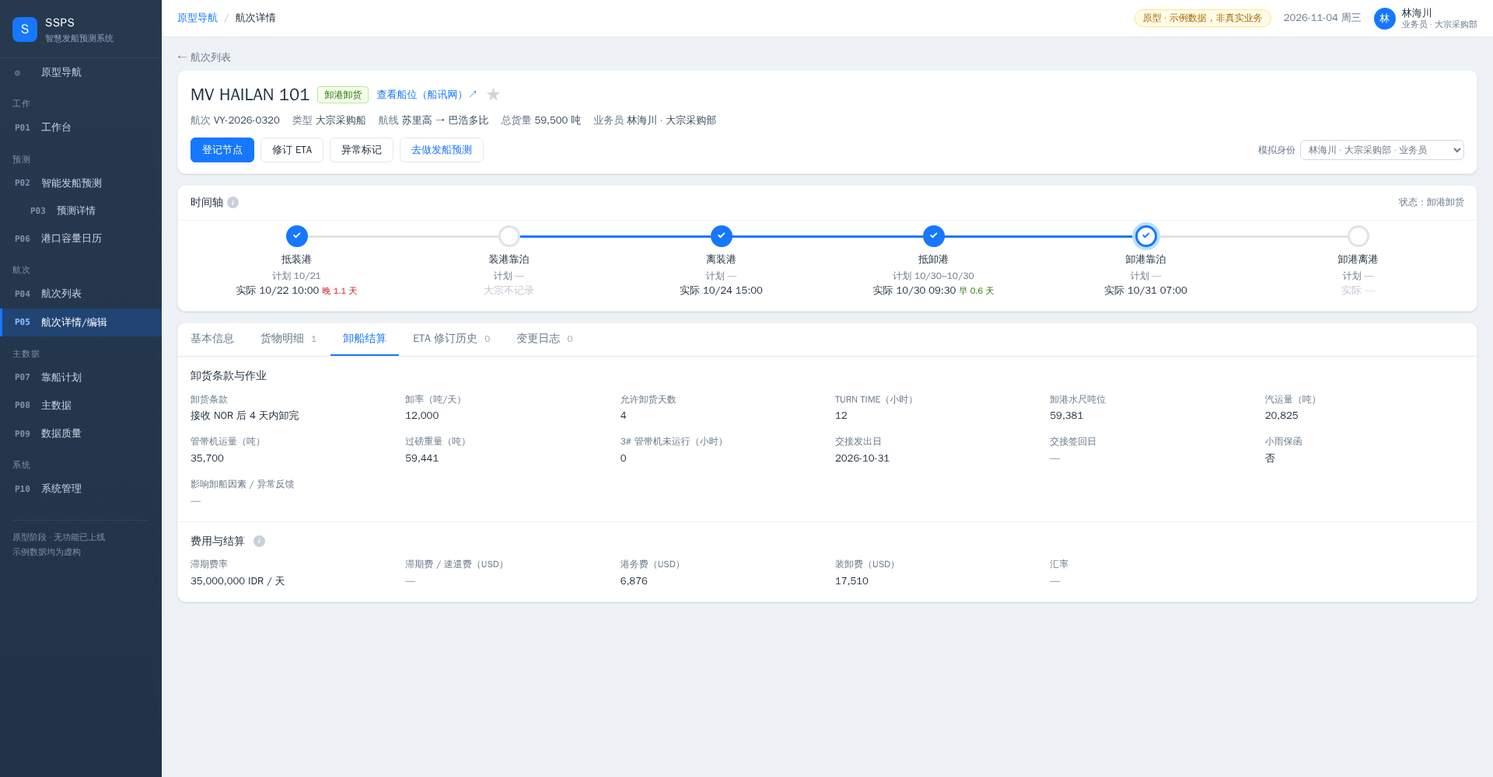
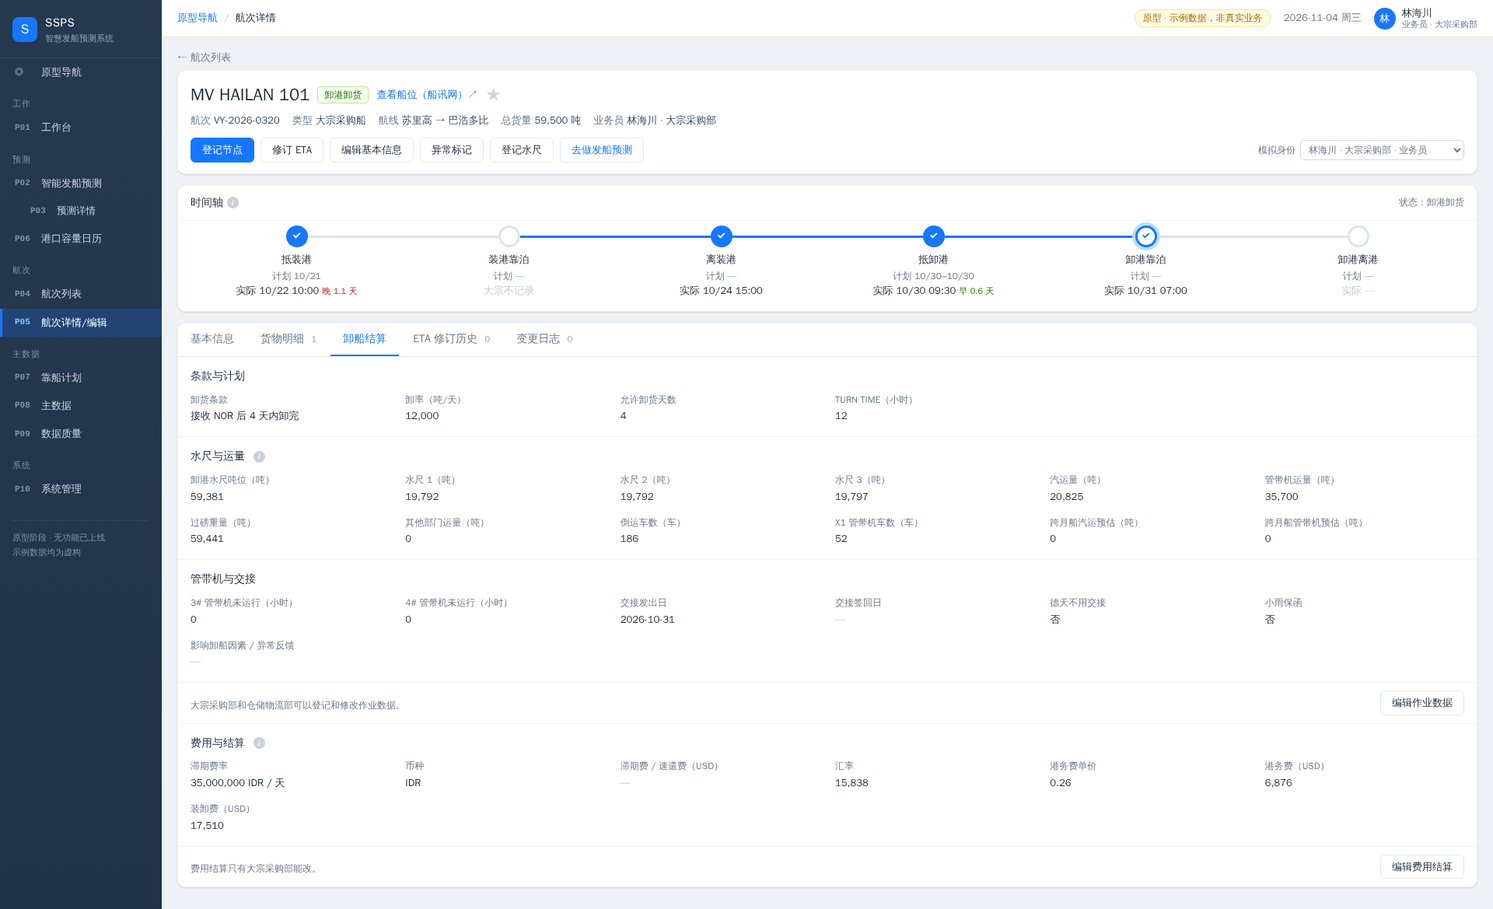
feat(prototype): P05 补全卸船作业与结算录入、登记水尺、销售扩展编辑
- 卸船结算页签按 T06 补全字段（水尺 1–3、其他部门运量、倒运车数、X1 管带机车数、跨月预估、4# 管带机、交接等），
  分「作业数据」和「费用结算」两块各自编辑；金额按部门隔离
- 顶部操作栏新增「登记水尺」「编辑基本信息」；成品船销售扩展可编辑；船未抵卸港前不能登记
- 保存时校验（不能为负、交接签回日不早于发出日）并记入变更日志
- 权限（待确认）：作业数据——大宗采购部与仓储物流部；费用金额——仅大宗采购部；销售扩展——商务海运部
- open-questions 登记仓储物流部权限冲突、卸船统计页范围、水尺口径

Claude-Session: https://claude.ai/code/session_01S7EgPzREeeBA8rsxhMLUP6

diff --git a/prototype/P05-voyage-detail.html b/prototype/P05-voyage-detail.html
@@ -76,7 +76,7 @@ textarea.inp{height:auto;min-height:60px;padding:6px 9px}
   const v = M.voyageList.find((x) => x.id === id);
   const root = $('root');
   if (!v) { root.innerHTML = '<a class="back" href="P04-voyage-list.html">← 航次列表</a><div class="card empty">没有找到航次 ' + C.esc(id) + '</div>'; return; }
-  const ST = { tab: C.qs.get('tab') || 'base', edit: false, focus: C.qs.get('focus') || '' };
+  const ST = { tab: C.qs.get('tab') || 'base', edit: false, editOps: false, editMoney: false, editSales: false, focus: C.qs.get('focus') || '' };
   const VIEWERS = [['林海川', '大宗采购部', '业务员'], ['周晓棠', '大宗采购部', '部门主管'], ['韩墨', '商务海运部', '业务员'], ['顾明远', '仓储物流部', '物流管理员']];
   const lbl = { attr: '业务属性', no: '船次号', carrier: '承运方', shipVoy: '船方航次号', disch2: '第二卸港', vessel: '船舶', laycanS: '受载期始', laycanE: '受载期止', planLoadArr: '计划抵装港', planLoadDep: '计划离装港', planDischS: '计划抵卸港窗口始', planDischE: '计划抵卸港窗口止', planBerths: '计划泊位', focus: '重点关注', remark: '备注', flags: '异常标记',
     actLoadArr: '实际抵装港', loadBerth: '装港靠泊', actLoadDep: '实际离装港', actDischArr: '实际抵卸港', dischBerth: '卸港靠泊', dischDep: '卸港离港', eta: '当前 ETA（卸港）' };
@@ -178,15 +178,69 @@ textarea.inp{height:auto;min-height:60px;padding:6px 9px}
   }
 
   // ---------- 卸船结算 / 销售扩展（金额字段按部门隔离） ----------
+  // ---------- 卸船作业与结算（T06）/ 销售扩展（T07） ----------
+  // 字段分两块：作业数据（水尺、运量、管带机、交接）和费用结算（金额，按部门隔离）
+  const OPS = [
+    ['条款与计划', [['terms', '卸货条款', 'text'], ['rate', '卸率（吨/天）', 'num'], ['allowDays', '允许卸货天数', 'num'], ['turn', 'TURN TIME（小时）', 'num']]],
+    ['水尺与运量', [['gauge', '卸港水尺吨位（吨）', 'num'], ['g1', '水尺 1（吨）', 'num'], ['g2', '水尺 2（吨）', 'num'], ['g3', '水尺 3（吨）', 'num'], ['truck', '汽运量（吨）', 'num'], ['belt', '管带机运量（吨）', 'num'], ['weigh', '过磅重量（吨）', 'num'], ['other', '其他部门运量（吨）', 'num'], ['carTurn', '倒运车数（车）', 'num'], ['x1Cars', 'X1 管带机车数（车）', 'num'], ['crossTruck', '跨月船汽运预估（吨）', 'num'], ['crossBelt', '跨月船管带机预估（吨）', 'num']]],
+    ['管带机与交接', [['beltOff3', '3# 管带机未运行（小时）', 'num'], ['beltOff4', '4# 管带机未运行（小时）', 'num'], ['sendDay', '交接发出日', 'date'], ['backDay', '交接签回日', 'date'], ['noHandover', '德天不用交接', 'bool'], ['rain', '小雨保函', 'bool'], ['issue', '影响卸船因素 / 异常反馈', 'textarea']]],
+  ];
+  const MONEY = [['demRate', '滞期费率', 'num'], ['demCur', '币种', 'cur'], ['demUsd', '滞期费 / 速遣费（USD）', 'num'], ['fx', '汇率', 'num'], ['portUnit', '港务费单价', 'num'], ['portFee', '港务费（USD）', 'num'], ['loadFee', '装卸费（USD）', 'num']];
+  const arrived = () => ['卸港等泊', '卸港卸货', '已结束'].includes(C.statusOf(v));
+  const sysAdmin = () => C.role() === '系统管理员';
+  // 权限（待确认）：作业数据——大宗采购部（本人航次/主管）和仓储物流部；金额——只有大宗采购部；成品销售扩展——商务海运部
+  const canOps = () => bulk && !v.readonly && ((C.me.dept === '大宗采购部' && C.canEdit(v)) || C.me.dept === '仓储物流部' || sysAdmin());
+  const canMoney = () => bulk && !v.readonly && ((C.me.dept === '大宗采购部' && C.canEdit(v)) || sysAdmin());
+  const canSales = () => prod && !v.readonly && ((C.me.dept === '商务海运部' && C.canEdit(v)) || sysAdmin());
+  const seeMoney = () => C.me.dept === '大宗采购部' || sysAdmin();
+  const fv = (t, val) => (val === null || val === undefined || val === '' ? '<span class="mut">—</span>' : t === 'bool' ? (val ? '是' : '否') : t === 'num' ? C.fmt(val) : C.esc(val));
+  const finp = (t, key, val) => t === 'bool' ? '<label><input type="checkbox" data-s="' + key + '"' + (val ? ' checked' : '') + '> 是</label>' : t === 'textarea' ? '<textarea class="inp" data-s="' + key + '">' + C.esc(val || '') + '</textarea>'
+    : t === 'cur' ? '<select class="inp" data-s="' + key + '"><option' + (val === 'IDR' ? ' selected' : '') + '>IDR</option><option' + (val === 'USD' ? ' selected' : '') + '>USD</option></select>'
+    : '<input class="inp" data-s="' + key + '" type="' + (t === 'num' ? 'number' : t === 'date' ? 'date' : 'text') + '" step="any" value="' + C.esc(val == null ? '' : val) + '">';
+  const itemX = (key, label, view, edit) => '<div class="it' + (ST.focus === key ? ' hl' : '') + '" data-f="' + key + '"><div class="k">' + label + '</div><div class="v">' + (edit ? edit : view) + '</div></div>';
   function extTab() {
-    if (prod) { const x = M.salesExt[v.id] || {}; return '<div class="sec"><div class="kvg">' + item('way', '租船方式', x.way || '—') + item('sc', '海运合同号', x.contract || '—') + '</div><div class="note2" style="margin-top:10px">「卸港代理」整列为空已删除；序号由航次编号替代。</div></div>'; }
+    if (prod) {
+      const x = M.salesExt[v.id] || {}, E = ST.editSales && canSales();
+      return '<div class="sec"><div class="kvg">' + itemX('way', '租船方式', fv('t', x.way), E ? '<select class="inp" data-s="way"><option value="">（未选）</option><option' + (x.way === 'CFR' ? ' selected' : '') + '>CFR</option><option' + (x.way === 'FOB' ? ' selected' : '') + '>FOB</option></select>' : null) +
+        itemX('sc', '海运合同号', fv('t', x.contract), E ? '<input class="inp" data-s="contract" value="' + C.esc(x.contract || '') + '">' : null) + '</div><div class="note2" style="margin-top:10px">「卸港代理」整列为空已删除；序号由航次编号替代。</div></div>' +
+        (canSales() ? '<div class="bar2"><span class="note2">商务海运部的业务员和主管可以修改。</span><span style="display:flex;gap:8px">' + (E ? '<button class="btn" id="xCancel">取消</button><button class="btn primary" id="xSaveSales">保存</button>' : '<button class="btn" id="xEditSales">编辑</button>') + '</span></div>' : '');
+    }
     const x = M.bulkSettle[v.id];
-    if (!x) return '<div class="empty">卸船开始后才有结算和作业数据。</div>';
-    const canAmt = C.me.dept === '大宗采购部' || ['系统管理员'].includes(C.role());
-    const amt = (val) => (canAmt ? val : '<span class="lock">无权限查看</span>');
-    return '<div class="sec"><h3>卸货条款与作业</h3><div class="kvg">' + item('t1', '卸货条款', x.terms) + item('t2', '卸率（吨/天）', C.fmt(x.rate)) + item('t3', '允许卸货天数', x.allowDays) + item('t4', 'TURN TIME（小时）', x.turn) + item('t5', '卸港水尺吨位', C.fmt(x.gauge)) +
-      item('t6', '汽运量（吨）', C.fmt(x.truck)) + item('t7', '管带机运量（吨）', C.fmt(x.belt)) + item('t8', '过磅重量（吨）', C.fmt(x.weigh)) + item('t9', '3# 管带机未运行（小时）', x.beltOff3) + item('t10', '交接发出日', x.sendDay || '—') + item('t11', '交接签回日', x.backDay || '—') + item('t12', '小雨保函', x.rain ? '是' : '否') + item('t13', '影响卸船因素 / 异常反馈', x.issue || '—') + '</div></div>' +
-      '<div class="sec"><h3>费用与结算' + C.ic('金额类字段按部门隔离：只有大宗采购部（及系统管理员）能看。用右上角的「模拟身份」可以切换体验。') + '</h3><div class="kvg">' + item('a1', '滞期费率', amt(C.fmt(x.demRate) + ' ' + x.demCur + ' / 天')) + item('a2', '滞期费 / 速遣费（USD）', amt(x.demUsd == null ? '—' : C.fmt(x.demUsd))) + item('a3', '港务费（USD）', amt(C.fmt(x.portFee))) + item('a4', '装卸费（USD）', amt(C.fmt(x.loadFee))) + item('a5', '汇率', amt('—')) + '</div></div>';
+    if (!x) return '<div class="empty">' + (arrived() ? '这条航次还没有登记卸船作业数据。' : '船抵卸港后才开始登记卸船作业数据（水尺、运量等）。') + (arrived() && canOps() ? '<br><button class="btn primary" id="xStart" style="margin-top:10px">开始登记</button>' : '') + '</div>';
+    const eo = ST.editOps && canOps(), em = ST.editMoney && canMoney();
+    const grp = (name, fields, tip) => '<div class="sec"><h3>' + name + (tip ? C.ic(tip) : '') + '</h3><div class="kvg">' + fields.map((f) => itemX('s_' + f[0], f[1], fv(f[2], x[f[0]]), eo ? finp(f[2], f[0], x[f[0]]) : null)).join('') + '</div></div>';
+    const opsBar = '<div class="bar2"><span class="note2">' + (canOps() ? (eo ? '编辑中：改完点保存，会记入变更日志。' : '大宗采购部和仓储物流部可以登记和修改作业数据。') : '你没有修改作业数据的权限。') + '</span>' + (canOps() ? '<span style="display:flex;gap:8px">' + (eo ? '<button class="btn" id="xCancel">取消</button><button class="btn primary" id="xSaveOps">保存作业数据</button>' : '<button class="btn" id="xEditOps">编辑作业数据</button>') + '</span>' : '') + '</div>';
+    let money;
+    if (!seeMoney()) money = '<div class="sec"><h3>费用与结算' + C.ic('金额类字段按部门隔离：只有大宗采购部（及系统管理员）能看。用右上角的「模拟身份」可以切换体验。') + '</h3><div class="kvg">' + MONEY.map((f) => '<div class="it"><div class="k">' + f[1] + '</div><div class="v"><span class="lock">无权限查看</span></div></div>').join('') + '</div></div>';
+    else money = '<div class="sec"><h3>费用与结算' + C.ic('金额类字段按部门隔离：只有大宗采购部（及系统管理员）能看和改。') + '</h3><div class="kvg">' + MONEY.map((f) => itemX('m_' + f[0], f[1], fv(f[2], x[f[0]]) + (f[0] === 'demRate' && x.demCur ? ' ' + x.demCur + ' / 天' : ''), em ? finp(f[2], f[0], x[f[0]]) : null)).join('') + '</div></div>' +
+      (canMoney() ? '<div class="bar2"><span class="note2">' + (em ? '编辑中：金额只有大宗采购部能改。' : '费用结算只有大宗采购部能改。') + '</span><span style="display:flex;gap:8px">' + (em ? '<button class="btn" id="xCancel">取消</button><button class="btn primary" id="xSaveMoney">保存费用结算</button>' : '<button class="btn" id="xEditMoney">编辑费用结算</button>') + '</span></div>' : '');
+    return grp(OPS[0][0], OPS[0][1]) + grp(OPS[1][0], OPS[1][1], '水尺是按船的吃水深度推算载货量的测量，卸港后登记。作业数据由大宗采购部和仓储物流部登记，这个权限划分待确认。') + grp(OPS[2][0], OPS[2][1]) + opsBar + money;
+  }
+  // 保存：作业数据 / 费用结算 / 销售扩展
+  function saveSettle(kind) {
+    const cur = M.bulkSettle[v.id] || (M.bulkSettle[v.id] = {}), fields = kind === 'ops' ? [].concat(...OPS.map((g) => g[1])) : MONEY, next = {};
+    for (const [k, label, t] of fields) {
+      const el = root.querySelector('[data-s="' + k + '"]'); if (!el) continue;
+      if (t === 'bool') next[k] = el.checked; else if (t === 'num') { if (el.value === '') next[k] = null; else { const n = +el.value; if (!(n >= 0)) { C.toast('「' + label + '」不能为负数'); return; } next[k] = n; } } else next[k] = el.value.trim() || (t === 'date' ? null : '');
+    }
+    if (next.sendDay && next.backDay && next.backDay < next.sendDay) { C.toast('交接签回日不能早于发出日'); return; }
+    let n = 0; fields.forEach(([k, label]) => { const o = cur[k], nw = next[k]; if (nw !== undefined && String(o == null ? '' : o) !== String(nw == null ? '' : nw)) { log((kind === 'ops' ? '卸船作业 · ' : '费用结算 · ') + label, o, nw); cur[k] = nw; n++; } });
+    ST.editOps = ST.editMoney = false; C.persist(); render(); C.toast(n ? '已保存 ' + n + ' 项修改，已记入变更日志' : '没有修改');
+  }
+  function saveSales() {
+    const cur = M.salesExt[v.id] || (M.salesExt[v.id] = {}), way = root.querySelector('[data-s="way"]').value, ct = root.querySelector('[data-s="contract"]').value.trim();
+    if ((cur.way || '') !== way) { log('销售扩展 · 租船方式', cur.way, way); cur.way = way; } if ((cur.contract || '') !== ct) { log('销售扩展 · 海运合同号', cur.contract, ct); cur.contract = ct; }
+    ST.editSales = false; C.persist(); render(); C.toast('已保存');
+  }
+  // 登记水尺（A14 的快捷入口：卸港后记录水尺读数）
+  function gaugeModal() {
+    const x = M.bulkSettle[v.id] || {};
+    C.modal({ title: '登记水尺', ok: '保存', width: 480, body:
+      '<div class="note2" style="margin:0 0 10px">卸港后登记水尺读数；卸港水尺吨位是水尺推算出的实际载货量。保存后记入变更日志。</div>' +
+      ['gauge:卸港水尺吨位（吨）', 'g1:水尺 1（吨）', 'g2:水尺 2（吨）', 'g3:水尺 3（吨）'].map((q) => { const [k, l] = q.split(':'); return '<div class="field"><div class="f-lab2">' + l + '</div><input class="inp" type="number" step="any" id="g_' + k + '" value="' + (x[k] == null ? '' : x[k]) + '"></div>'; }).join('') + '<div class="errtxt" id="ge"></div>',
+      onOk: (m) => { const cur = M.bulkSettle[v.id] || (M.bulkSettle[v.id] = {}); let n = 0;
+        for (const k of ['gauge', 'g1', 'g2', 'g3']) { const raw = m.querySelector('#g_' + k).value; if (raw === '') continue; const val = +raw; if (!(val >= 0)) { m.querySelector('#ge').textContent = '水尺数值不能为负'; return false; } if (cur[k] !== val) { log('卸船作业 · ' + ({ gauge: '卸港水尺吨位', g1: '水尺 1', g2: '水尺 2', g3: '水尺 3' })[k], cur[k], val); cur[k] = val; n++; } }
+        if (!n) { m.querySelector('#ge').textContent = '没有填写或没有修改'; return false; } C.persist(); ST.tab = 'ext'; render(); C.toast('水尺已登记，已记入变更日志'); } });
   }
   const ETA_BASIS = ['船讯网', '船代', '电话'];
   const etaTab = () => { const L = M.etaRevisions.filter((r) => r.voyage === v.id).sort((a, b) => b.at.localeCompare(a.at));
@@ -210,7 +264,7 @@ textarea.inp{height:auto;min-height:60px;padding:6px 9px}
       (v.readonly ? '<div class="banner info">这是从历史副本迁入的记录，应用内不能修改。</div>' : '') +
       (C.missingDep(v) ? '<div class="banner err"><span>这条航次已抵卸港，但<b>缺「实际离装港」</b>，不能计入航程样本。</span>' + (can ? '<button class="btn primary" data-act="node">去补录</button>' : '') + '</div>' : '') +
       (C.etaStale(v) ? '<div class="banner warn"><span>ETA 已 ' + (C.TODAY - C.dayNum(v.etaUpdated)) + ' 天没有更新（超过 ' + C.ETA_STALE_DAYS + ' 天），请核对船位后修订。</span>' + (can ? '<button class="btn" data-act="eta">修订 ETA</button>' : '') + '</div>' : '') +
-      '<div class="acts"><button class="btn primary" data-act="node"' + (can ? '' : dis(noTip)) + '>登记节点</button><button class="btn" data-act="eta"' + (can && !v.actDischArr && v.vessel ? '' : dis(!can ? noTip : '只有已关联船舶、尚未抵卸港的航次才需要修订 ETA')) + '>修订 ETA</button><button class="btn" data-act="flags"' + (can ? '' : dis(noTip)) + '>异常标记</button><a class="btn" href="P02-prediction.html" style="text-decoration:none">去做发船预测</a><span class="sp"></span>' +
+      '<div class="acts"><button class="btn primary" data-act="node"' + (can ? '' : dis(noTip)) + '>登记节点</button><button class="btn" data-act="eta"' + (can && !v.actDischArr && v.vessel ? '' : dis(!can ? noTip : '只有已关联船舶、尚未抵卸港的航次才需要修订 ETA')) + '>修订 ETA</button><button class="btn" data-act="edit"' + (can ? '' : dis(noTip)) + '>编辑基本信息</button><button class="btn" data-act="flags"' + (can ? '' : dis(noTip)) + '>异常标记</button>' + (bulk ? '<button class="btn" data-act="gauge"' + (canOps() && arrived() ? '' : dis(!canOps() ? '只有大宗采购部和仓储物流部能登记水尺' : '船抵卸港后才能登记水尺')) + '>登记水尺</button>' : '') + '<a class="btn" href="P02-prediction.html" style="text-decoration:none">去做发船预测</a><span class="sp"></span>' +
       '<label class="viewer">模拟身份<select id="viewer">' + VIEWERS.map((x) => '<option value="' + x[0] + '"' + (x[0] === C.me.name ? ' selected' : '') + '>' + x[0] + ' · ' + x[1] + ' · ' + x[2] + '</option>').join('') + '</select></label></div></section>' +
       '<section class="card" style="margin-top:14px"><div class="card-h"><h2>时间轴' + C.ic('每个节点显示计划和实际时间；实际晚于计划标红。状态就是已填的最靠后一个节点所对应的阶段。') + '</h2><span class="muted nw" style="font-size:12px">状态：' + d.status + '</span></div>' + timeline() + '</section>' +
       '<section class="card" style="margin-top:14px"><div class="tabs2" id="tabs">' + tabs.map((t) => '<button data-t="' + t[0] + '" class="' + (t[0] === ST.tab ? 'on' : '') + '">' + t[1] + '</button>').join('') + '</div><div id="tabbody">' +
@@ -219,14 +273,18 @@ textarea.inp{height:auto;min-height:60px;padding:6px 9px}
     if (ST.focus) { const el = root.querySelector('[data-f="' + ST.focus + '"]'); if (el) el.scrollIntoView({ block: 'center' }); }
   }
   function bind() {
-    $('tabs').querySelectorAll('button').forEach((b) => b.onclick = () => { ST.tab = b.dataset.t; ST.focus = ''; ST.edit = false; render(); });
-    root.querySelectorAll('[data-act]').forEach((b) => b.onclick = () => { if (!b.disabled) ({ node: nodeModal, eta: etaModal, flags: flagsModal }[b.dataset.act])(); });
+    $('tabs').querySelectorAll('button').forEach((b) => b.onclick = () => { ST.tab = b.dataset.t; ST.focus = ''; ST.edit = ST.editOps = ST.editMoney = ST.editSales = false; render(); });
+    root.querySelectorAll('[data-act]').forEach((b) => b.onclick = () => { if (!b.disabled) ({ node: nodeModal, eta: etaModal, flags: flagsModal, gauge: gaugeModal, edit: () => { ST.tab = 'base'; ST.edit = true; render(); } }[b.dataset.act])(); });
     const sh = $('ship'); if (sh) sh.onclick = () => C.toast('原型：这里会跳转船讯网，按 MMSI ' + mmsiOf() + ' 定位船位');
     $('star').onclick = () => { if (!C.canEdit(v)) { C.toast('没有修改权限'); return; } v.focus = !v.focus; log('重点关注', v.focus ? '否' : '是', v.focus ? '是' : '否'); C.persist(); render(); };
     $('viewer').onchange = (e) => { const x = VIEWERS.find((q) => q[0] === e.target.value); Object.assign(C.me, { name: x[0], dept: x[1] }); M.people[x[0]] = M.people[x[0]] || { dept: x[1], role: x[2] }; ST.edit = false; render(); C.toast('已切换为 ' + x[0] + '（' + x[1] + ' · ' + x[2] + '）'); };
     const se = $('startEdit'); if (se) se.onclick = () => { ST.edit = true; render(); };
     const ce = $('cancelEdit'); if (ce) ce.onclick = () => { ST.edit = false; render(); };
     const sv = $('saveEdit'); if (sv) sv.onclick = saveEdit;
+    const bn = (id, fn) => { const el = $(id); if (el) el.onclick = fn; };
+    bn('xEditOps', () => { ST.editOps = true; render(); }); bn('xEditMoney', () => { ST.editMoney = true; render(); }); bn('xEditSales', () => { ST.editSales = true; render(); });
+    bn('xCancel', () => { ST.editOps = ST.editMoney = ST.editSales = false; render(); }); bn('xSaveOps', () => saveSettle('ops')); bn('xSaveMoney', () => saveSettle('money')); bn('xSaveSales', saveSales);
+    bn('xStart', () => { M.bulkSettle[v.id] = { terms: '', rate: null, allowDays: null, turn: null, demCur: 'IDR' }; log('卸船作业', '', '开始登记'); C.persist(); ST.editOps = true; render(); });
     const ac = $('addCargo'); if (ac) ac.onclick = () => cargoModal(null);
     root.querySelectorAll('[data-ce]').forEach((b) => b.onclick = () => cargoModal(+b.dataset.ce));
     root.querySelectorAll('[data-cd]').forEach((b) => b.onclick = () => { const L = C.cargoOf(v), c = L[+b.dataset.cd]; if (L.length <= 1) { C.toast('至少保留一行货物明细'); return; } M.cargoLines.splice(M.cargoLines.indexOf(c), 1); log('删除货物明细', c.contract + ' · ' + c.tons + ' 吨', ''); C.persist(); render(); C.toast('已删除'); });
@@ -288,6 +346,7 @@ textarea.inp{height:auto;min-height:60px;padding:6px 9px}
   }
   render();
   if (C.qs.get('act') === 'node' && C.canEdit(v)) nodeModal(); else if (C.qs.get('act') === 'eta' && C.canEdit(v)) etaModal();
+  else if (C.qs.get('act') === 'gauge' && canOps() && arrived()) gaugeModal();
 })();
 </script>
 </body>

diff --git a/prototype/assets/common.js b/prototype/assets/common.js
@@ -103,7 +103,7 @@
   };
   C.download = (name, text) => { const a = document.createElement('a'); a.href = URL.createObjectURL(new Blob(['' + text], { type: 'text/csv;charset=utf-8' })); a.download = name; a.click(); };
   // ---------- 会话内持久化（原型：只存在于本浏览器标签页，刷新不丢，关闭即清） ----------
-  const KEY = 'ssps-proto-v1', KEYS = ['voyageList', 'etaRevisions', 'changeLog', 'issues', 'cargoLines', 'batches', 'syncLogs', 'routeRules', 'vessels', 'ports'];
+  const KEY = 'ssps-proto-v1', KEYS = ['voyageList', 'etaRevisions', 'changeLog', 'issues', 'cargoLines', 'batches', 'syncLogs', 'routeRules', 'vessels', 'ports', 'bulkSettle', 'salesExt'];
   try { const raw = sessionStorage.getItem(KEY); if (raw) { const d = JSON.parse(raw); KEYS.forEach((k) => { if (d[k]) M[k] = d[k]; }); } } catch (e) { /* 无存储时忽略 */ }
   C.persist = () => { try { const o = {}; KEYS.forEach((k) => { o[k] = M[k]; }); sessionStorage.setItem(KEY, JSON.stringify(o)); } catch (e) { /* ignore */ } };
   C.resetData = () => { try { sessionStorage.removeItem(KEY); } catch (e) { /* ignore */ } };

diff --git a/prototype/mock-data.js b/prototype/mock-data.js
@@ -381,3 +381,12 @@
   // ---------- 连通性自检 ----------
   M.health = [['飞书应用凭证（租户令牌）', '正常', '剩余有效期 1 小时 48 分'], ['航运主数据多维表格', '正常', '11 张表可读写，权限已开通'], ['云空间靠船计划文件夹', '正常', '最近文件 靠船计划_20261103.xlsx'], ['应用数据库', '正常', '镜像表同步延迟 < 1 分钟'], ['综合物流平台兼容表', '提醒', 'T09b 最近一次刷新 15:52，距今 17 小时']];
 })();
+
+/* 卸船结算示例数据补全：T06 里的水尺、其他部门运量、倒运车数等字段 */
+(function () {
+  const M = window.MOCK; let i = 0;
+  Object.keys(M.bulkSettle).forEach((id) => {
+    const x = M.bulkSettle[id], g = x.gauge || 50000; i++;
+    Object.assign(x, { g1: Math.round(g * 0.3333), g2: Math.round(g * 0.3333), g3: g - 2 * Math.round(g * 0.3333), other: 0, carTurn: 150 + i * 6, x1Cars: 40 + i * 2, crossTruck: 0, crossBelt: 0, noHandover: false, fx: 15820 + i * 3, portUnit: 0.26 });
+  });
+})();

diff --git a/docs/open-questions.md b/docs/open-questions.md
@@ -55,3 +55,9 @@
 - [ ] 靠船计划页：原型只保留最新一期的明细，历史批次只看批次列表；手动上传只演示校验报告和导入流程，不解析文件。
 - [ ] 系统管理页的迁移 dry-run 数字取自实施计划书第 7 节的预估，最终以迁移脚本输出为准。
 - [ ] 原型里的新建、修改只保存在当前浏览器标签页（会话内），不会写到别处；「系统管理」页可一键重置。
+
+## 原型阶段新增（卸船作业与水尺登记）
+
+- [ ] **仓储物流部能否登记卸船作业数据（规格冲突）**：接口 A14 只允许大宗采购部的业务员 / 主管改卸船结算，但水尺、汽运量、管带机运量、过磅重量等作业数据实际由仓储物流部登记；K11 又规定业务员只能改本人航次。建议把 T06 按权限拆成两块：「作业数据」（水尺、运量、管带机、交接）由大宗采购部和仓储物流部登记，「费用结算」（滞期费、港务费、装卸费等金额）只给大宗采购部看和改。原型已按这个建议实现，等你确认。
+- [ ] **卸船统计页**：实施计划第 1 节写明「大宗卸船明细 / 统计、仓储生产快报」一期不重建，按原结构迁飞书「综合物流报表」，所以 P01–P10 里没有卸船统计页。如果仓储物流部需要在应用里看统计，需要增加页面，请确认是否纳入一期。
+- [ ] **水尺字段的口径**：T06 有「卸港水尺吨位」和「水尺 1–3」，原型把它们都当成纯数字录入，没有做水尺 1–3 到水尺吨位的自动换算；是否需要换算、公式是什么，待确认。
